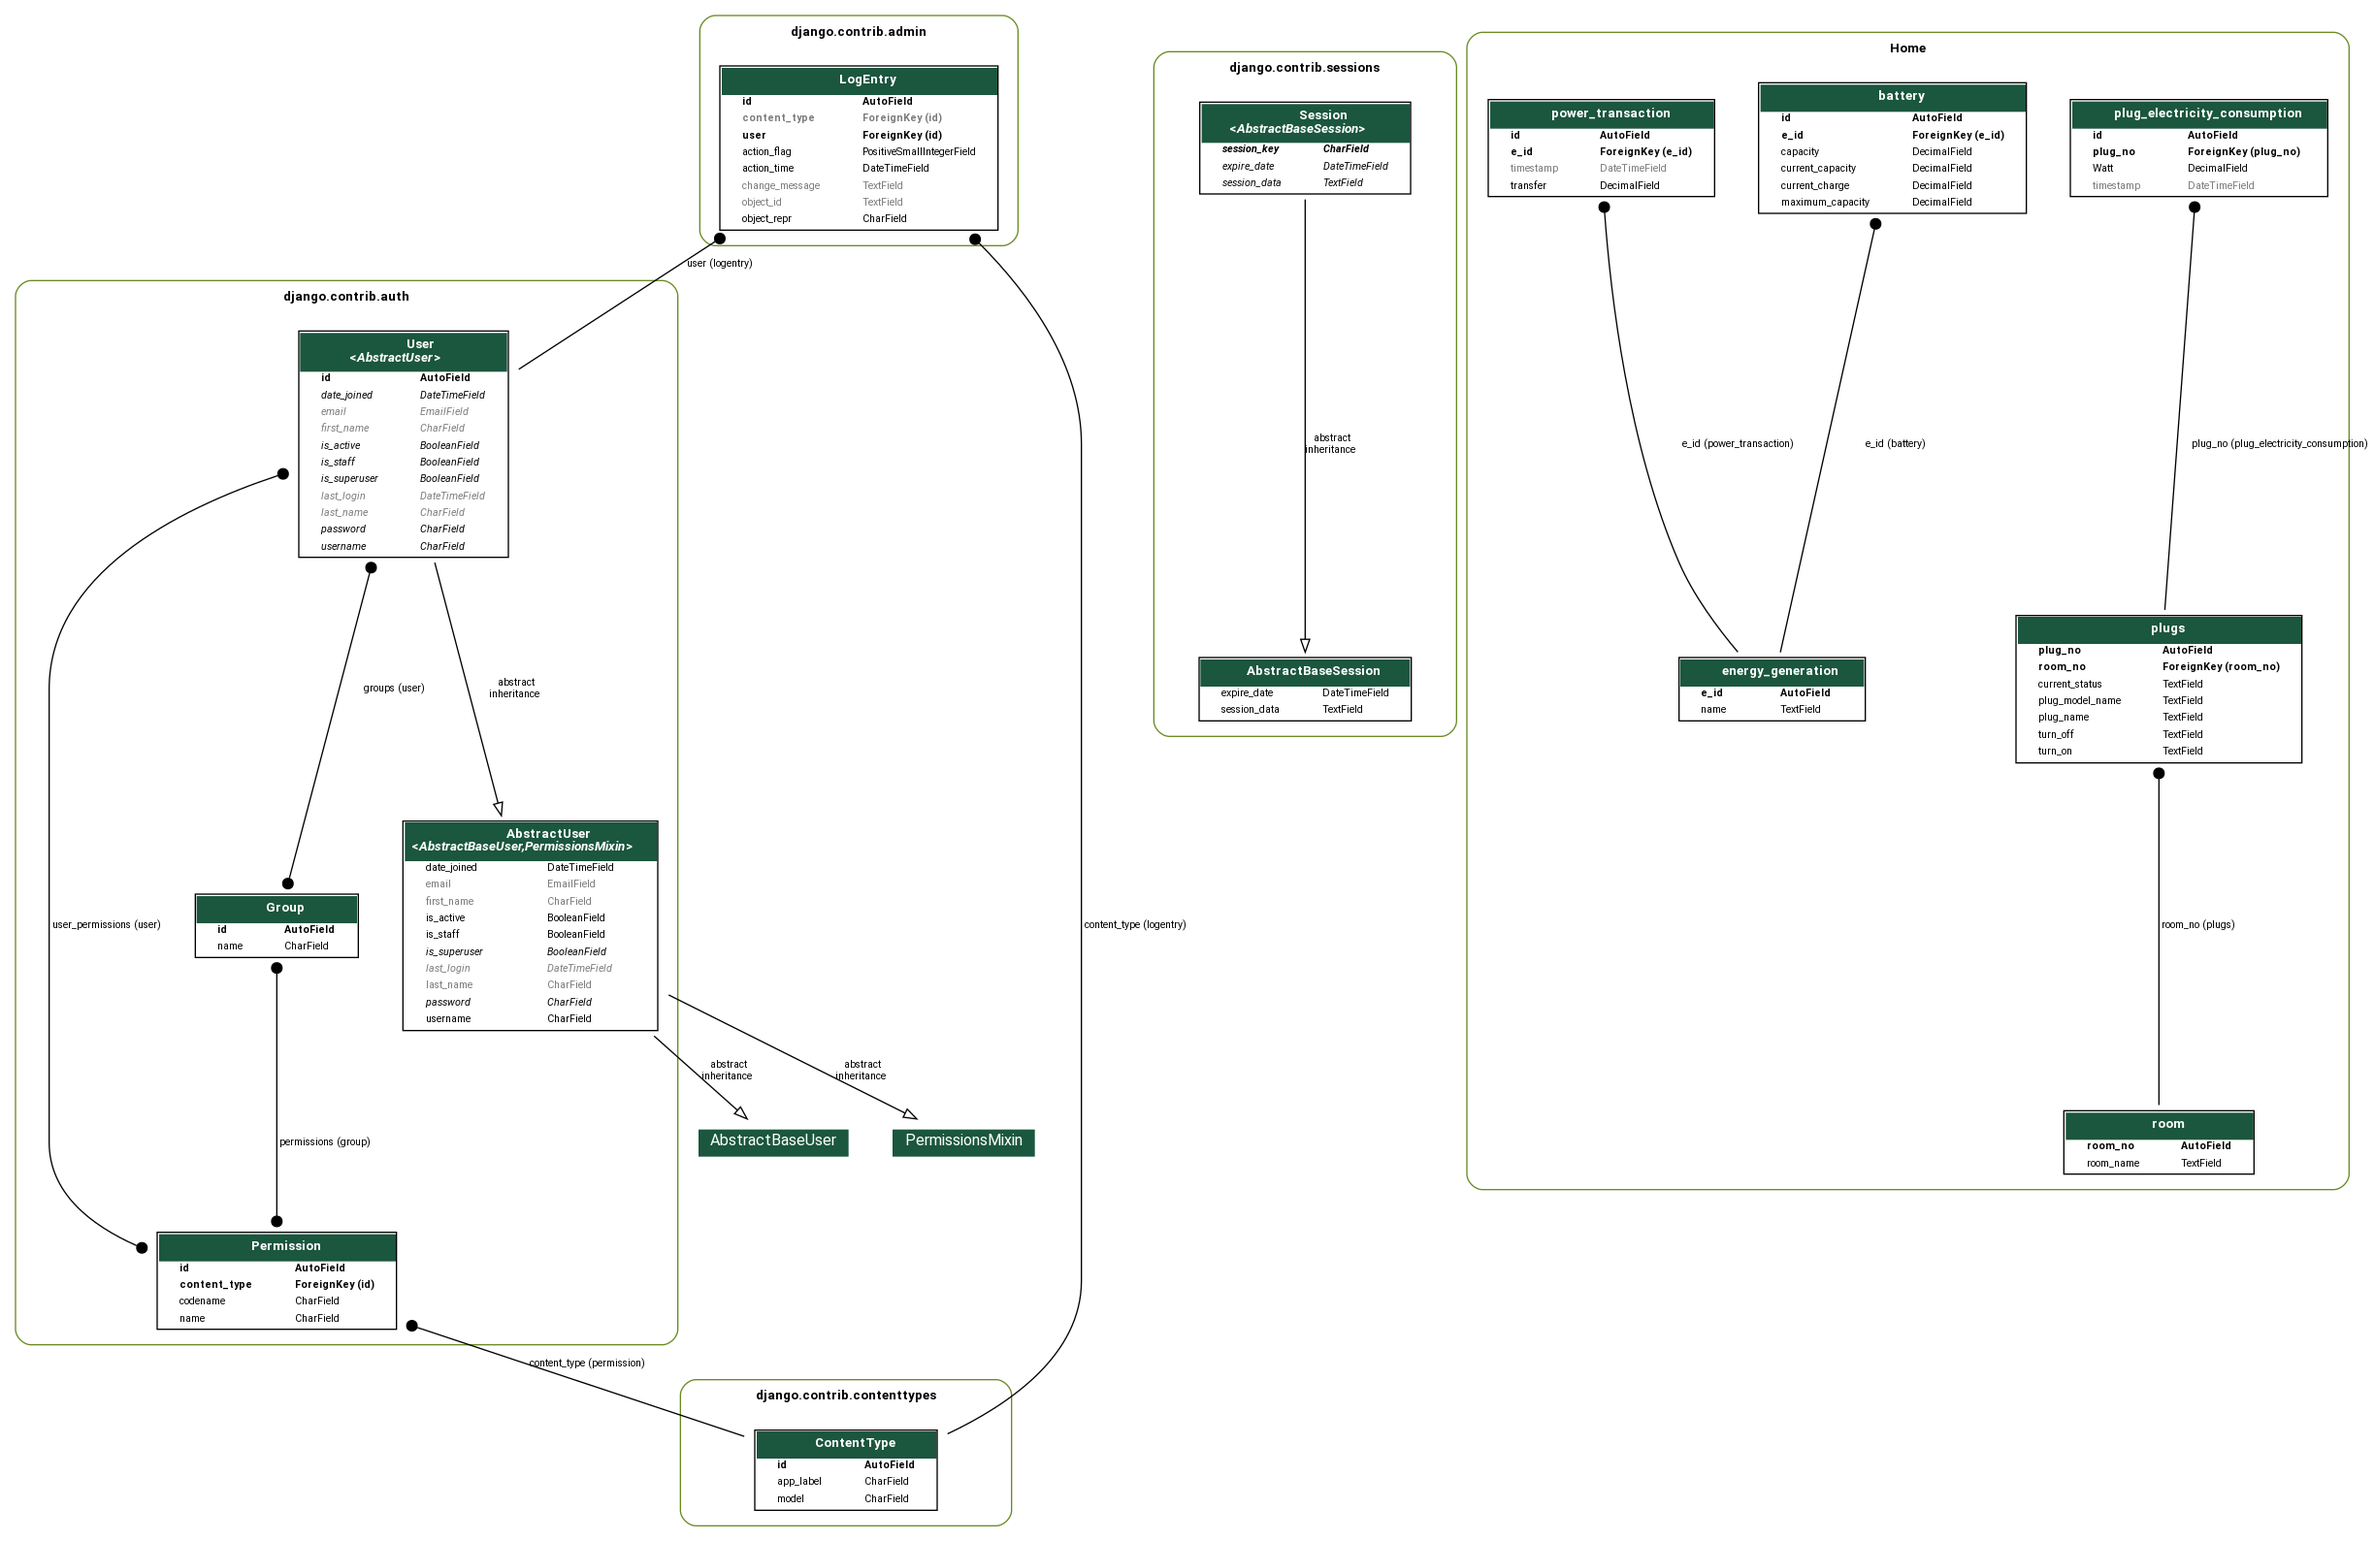
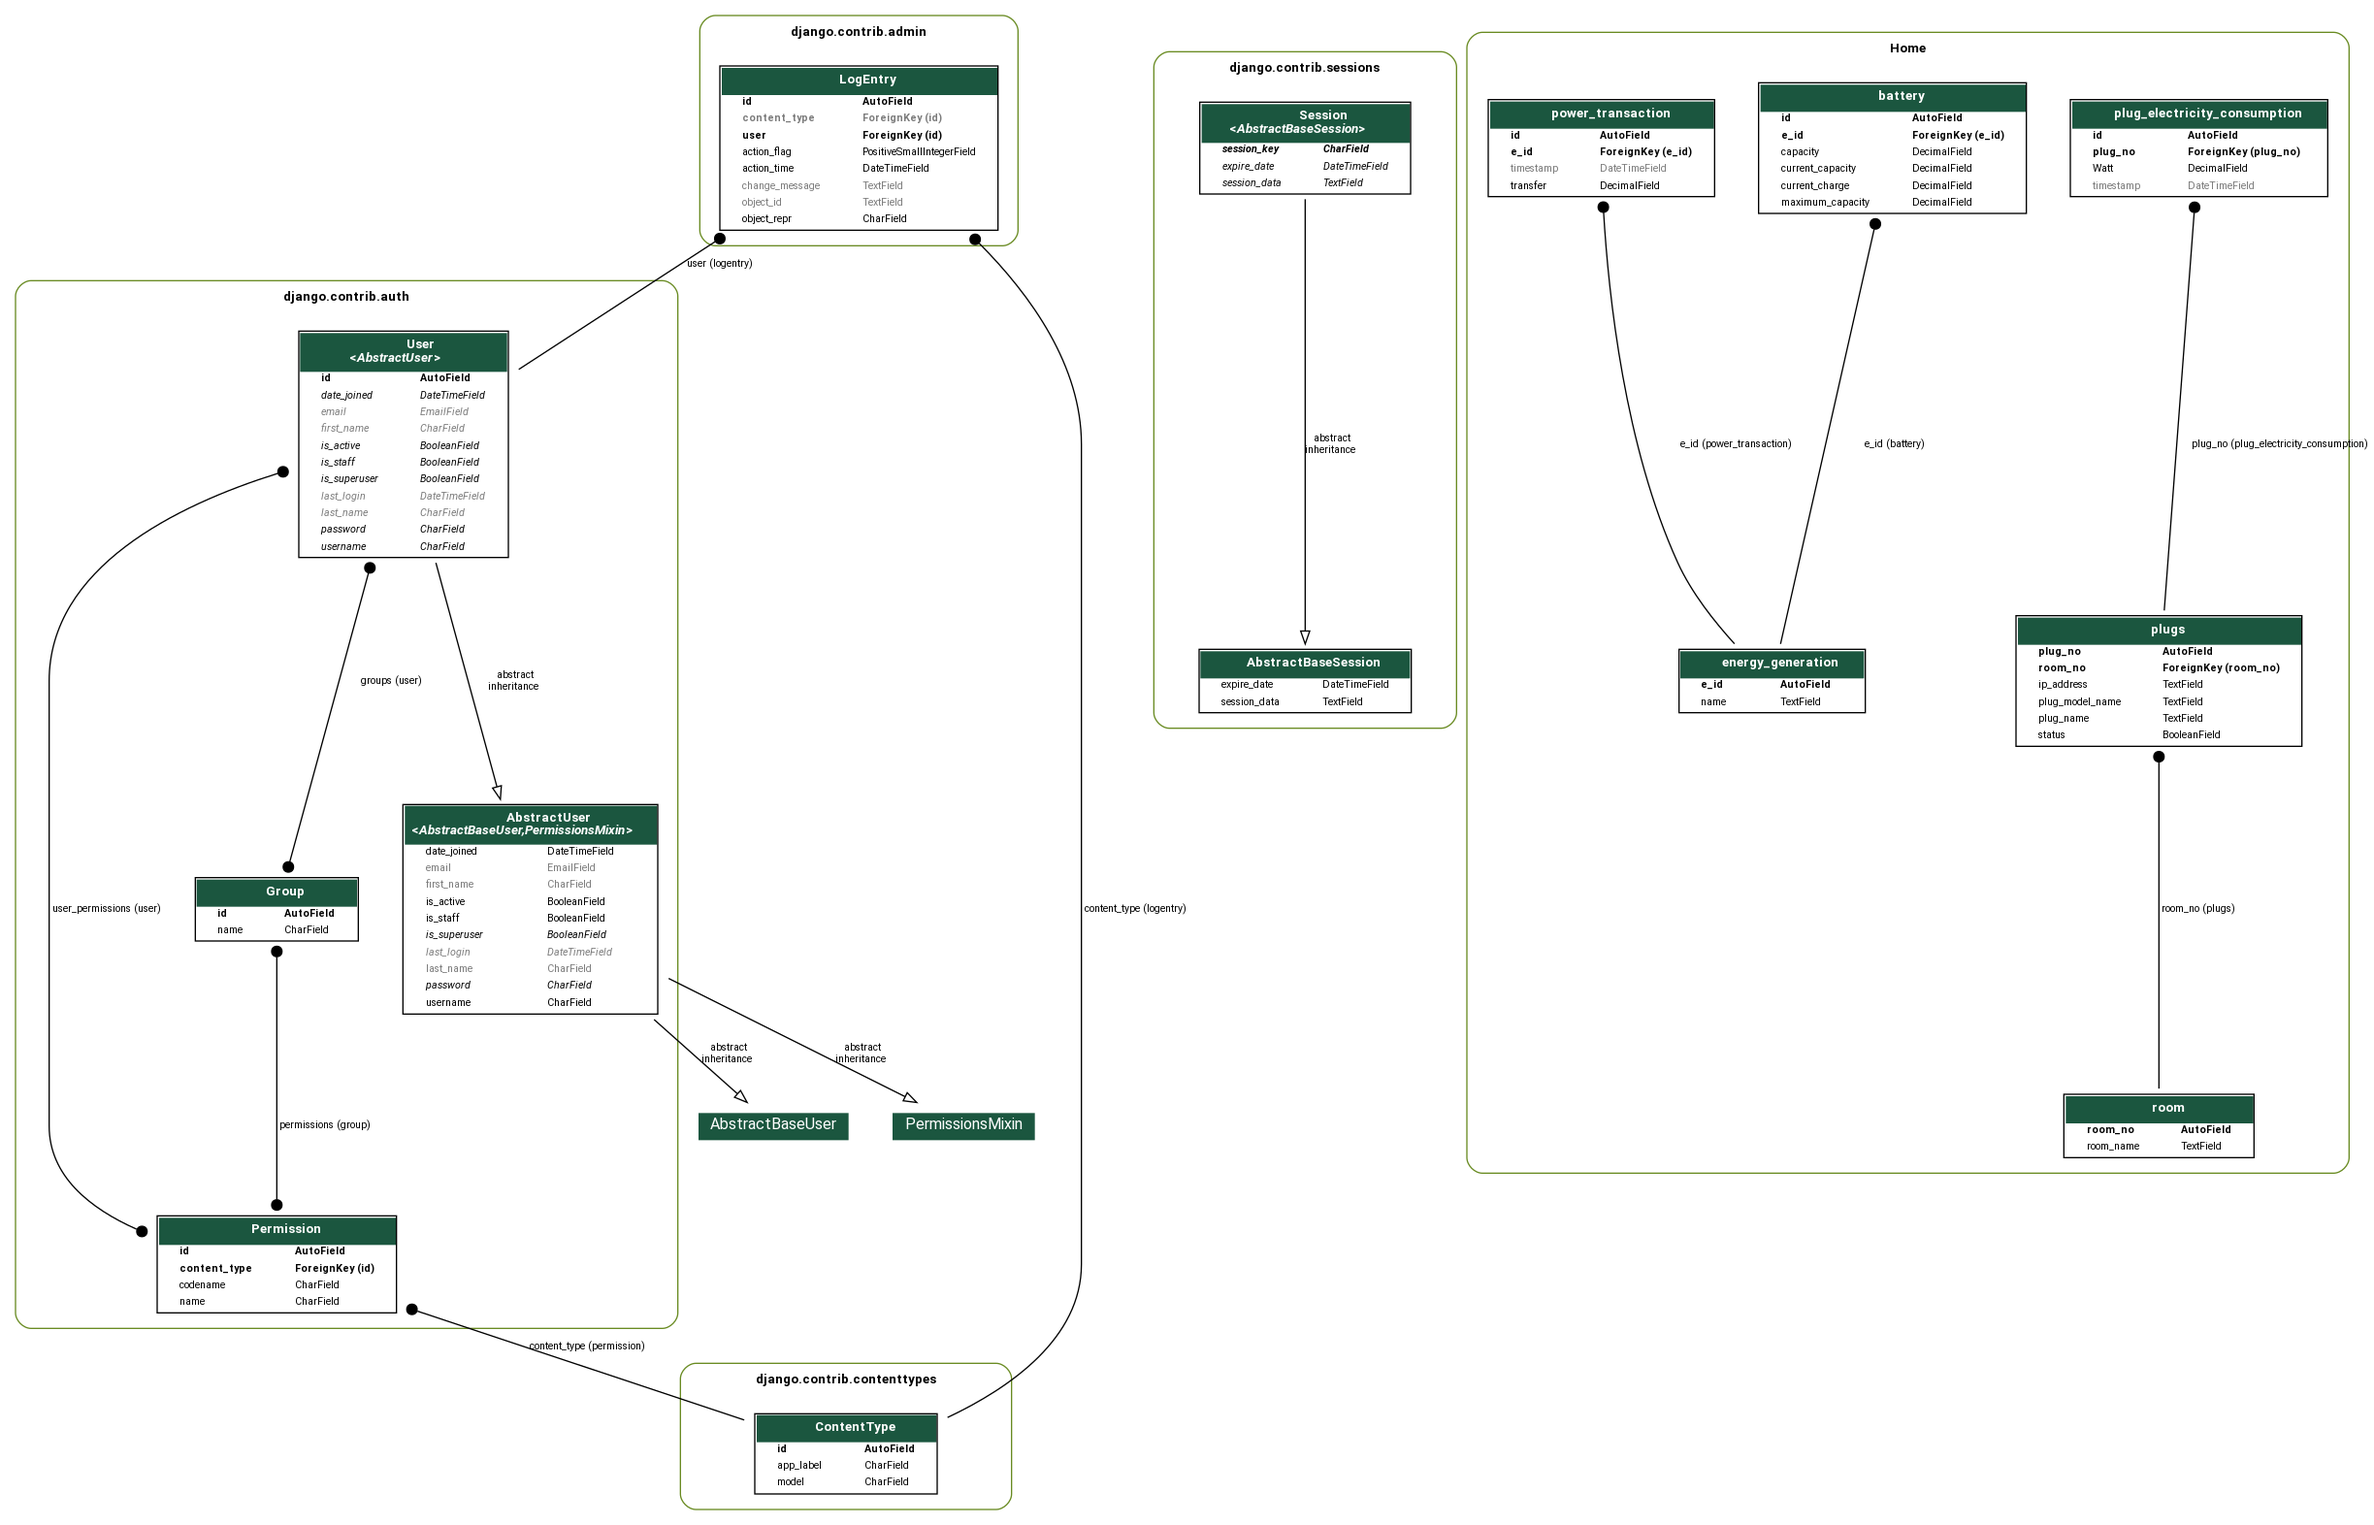
New er diagram

diff --git a/Home/models.py b/Home/models.py
@@ -11,6 +11,7 @@ class plugs(models.Model):
     plug_model_name = models.TextField(max_length = 40)
     room_no = models.ForeignKey(room, default=1, on_delete=models.CASCADE)
     status = models.BooleanField(default=False)
+    ip_address = models.TextField(max_length = 40,default="0.0.0.0")
 
 class plug_electricity_consumption(models.Model):
     plug_no = models.ForeignKey(plugs, default=1,on_delete=models.CASCADE)
